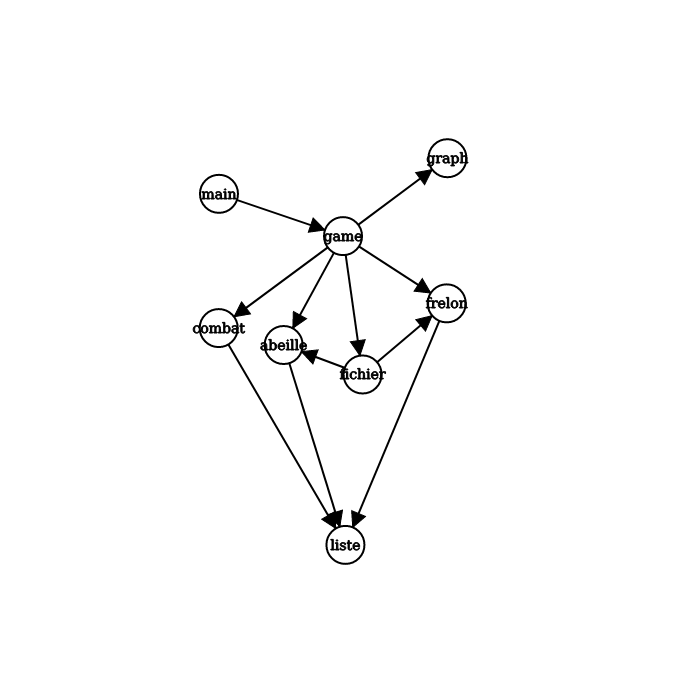
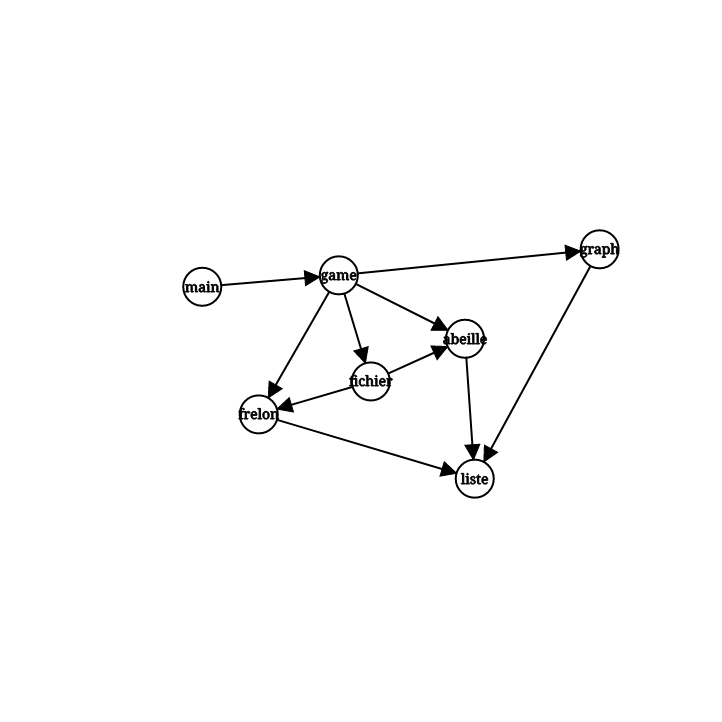
mise en place de la modularisation et du makefile

diff --git a/src/liste.h b/src/liste.h
@@ -2,5 +2,114 @@
 #define __LISTE__
 #include <stdio.h>
 #include <stdlib.h>
+// Dimensions de la grille en nombre de cases (origine en haut a gauche) :
+#define COLONNES 12
+#define LIGNES 18
+
+// Les deux camps :
+#define ABEILLE 'A'
+#define FRELON 'F'
+
+// Les types d'unites :
+#define REINE 'r'
+#define OUVRIERE 'o'
+#define ESCADRON 'e'
+#define GUERRIERE 'g'
+#define FRELONS 'f'
+#define RUCHE 'R'
+#define NID 'N'
+
+// Pour la recolte de pollen
+#define RECOLTE 'p'
+
+// Les temps necessaires a la production :
+#define TREINEA 8
+#define TREINEF 8
+#define TOUVRIERE 2
+#define TGUERRIERE 4
+#define TESCADRON 6
+#define TFRELON 5
+#define TRECOLTE 4
+
+// Les couts necessaires a la production :
+#define CREINEA 7
+#define CREINEF 8
+#define COUVRIERE 3
+#define CGUERRIERE 5
+#define CESCADRON 6
+#define CFRELON 3
+#define CRUCHE 10
+#define CNID 10
+
+// La force des unites
+#define FREINE 6
+#define FOUVRIERE 1
+#define FGUERRIERE 5
+#define FESCADRON 12
+#define FFRELON 8
+
+// La structure Unite :
+typedef struct unite {
+char camp; // ABEILLE ou FRELON
+char type; // RUCHE, NID, REINE, OUVRIERE, GUERRIERE, ESCADRON ou FRELON
+int force; // la force de l'unite
+int posx, posy; // position actuelle sur la grille
+int destx, desty; // destination (negatif si immobile)
+char production; // production d'une ruche ou d'un nid et RECOLTE pour la recolte de pollen
+int temps; // nombres de tours total pour cette production
+int toursrestant; // tours restant pour cette production
+struct unite *usuiv, *uprec; // liste des unites affiliees a une ruche ou un nid
+struct unite *colsuiv, *colprec; // liste des autres ruches ou nids (colonies) du même camp
+struct unite *vsuiv, *vprec; // liste des autres unites sur la meme case
+} Unite, *UListe;
+
+// La structure Case :
+typedef struct {
+Unite *colonie; // S'il y a une ruche ou un nid sur la case
+UListe occupant; // les autres occupants de la case
+} Case;
+
+// La structure Grille :
+typedef struct {
+Case plateau[LIGNES][COLONNES];
+UListe abeille, frelon;
+int tour; // Numero du tour
+int ressourcesAbeille, ressourcesFrelon;
+} Grille;
+
+/**
+ * @brief alloue l'unite
+ * 
+ * @param camp 
+ * @param type 
+ * @param force 
+ * @return Unite* 
+ */
+Unite* alloueCellule(char camp, char type, int force);
+
+/**
+ * @brief insere en tête de la liste unite(u), colonie(c), ou combat(f) et renvoie 1 si réussi 0 sinon
+ * 
+ * @param l 
+ * @param type 
+ * @return int 
+ */
+int insereEnTete(UListe* l, char type);
+
+/**
+ * @brief supprime de la liste unite(u), colonie(c), ou combat(f) au coordonnées posX et posY
+ * 
+ * @param l 
+ * @param type 
+ * @return int 
+ */
+int suprimeCellule(UListe* l, char type, int posX, int posY);
+
+/**
+ * @brief libere les liste unite, colonie, et combat
+ * 
+ * @param l 
+ */
+void libereListe(UListe* l);
 
 #endif

diff --git a/src/fichier.h b/src/fichier.h
@@ -1,0 +1,28 @@
+#ifndef __FICHIER__
+#define __FICHIER__
+#include "abeille.h"
+#include "frelon.h"
+
+/**
+ * @brief ouvre le fichier de sauvegarde et si il existe pas il le crée
+ * 
+ * @param nom 
+ * @return FILE* 
+ */
+FILE* ouvreFichier(char* nom);
+
+/**
+ * @brief charge la sauvegarde
+ * 
+ * @param f 
+ */
+void charger(FILE* f);
+
+/**
+ * @brief sauvegarde la partie (a ajouter les argument que l'on aura besoin dans le prototype)
+ * 
+ * @param f 
+ */
+void sauvegarder(FILE* f);
+
+#endif

diff --git a/src/graph.h b/src/graph.h
@@ -1,0 +1,21 @@
+#ifndef __GRAPH__
+#define __GRAPH__
+#include "MLV/MLV_all.h"
+#include "liste.h"
+
+/**
+ * @brief affiche le plateaux de jeux
+ * 
+ * @param plateaux 
+ */
+void affichePlateaux(Grille plateaux);
+
+/**
+ * @brief affiche les unite abeille et frolon
+ * 
+ * @param l 
+ */
+void afficheUnite(UListe l);
+
+
+#endif

diff --git a/src/game.h b/src/game.h
@@ -1,0 +1,8 @@
+#ifndef __GAME__
+#define __GAME__
+#include "abeille.h"
+#include "frelon.h"
+#include "fichier.h"
+#include "graph.h"
+
+#endif

diff --git a/src/main.c b/src/main.c
@@ -1,0 +1,5 @@
+#include "game.h"
+
+int main(int argc, char* argv[]){
+    return 0;
+}

diff --git a/src/abeille.h b/src/abeille.h
@@ -1,0 +1,5 @@
+#ifndef __ABEILLE__
+#define __ABEILLE__
+#include "liste.h"
+
+#endif

diff --git a/src/frelon.h b/src/frelon.h
@@ -1,0 +1,5 @@
+#ifndef __FRELON__
+#define __FRELON__
+#include "liste.h"
+
+#endif

diff --git a/src/abeille.c b/src/abeille.c
@@ -1,0 +1,1 @@
+#include "abeille.h"

diff --git a/src/fichier.c b/src/fichier.c
@@ -1,0 +1,1 @@
+#include "fichier.h"

diff --git a/src/frelon.c b/src/frelon.c
@@ -1,0 +1,1 @@
+#include "frelon.h"

diff --git a/src/graph.c b/src/graph.c
@@ -1,0 +1,1 @@
+#include "graph.h"

diff --git a/src/liste.c b/src/liste.c
@@ -1,0 +1,1 @@
+#include "liste.h"
